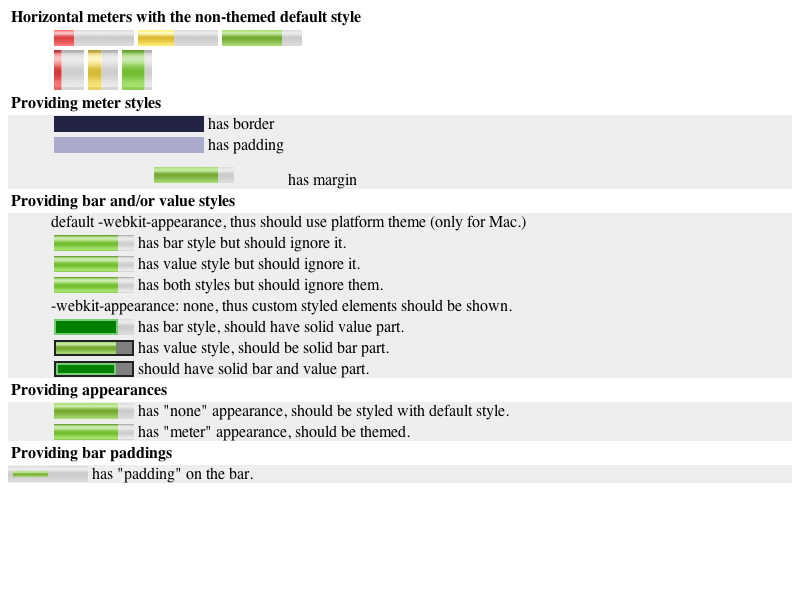
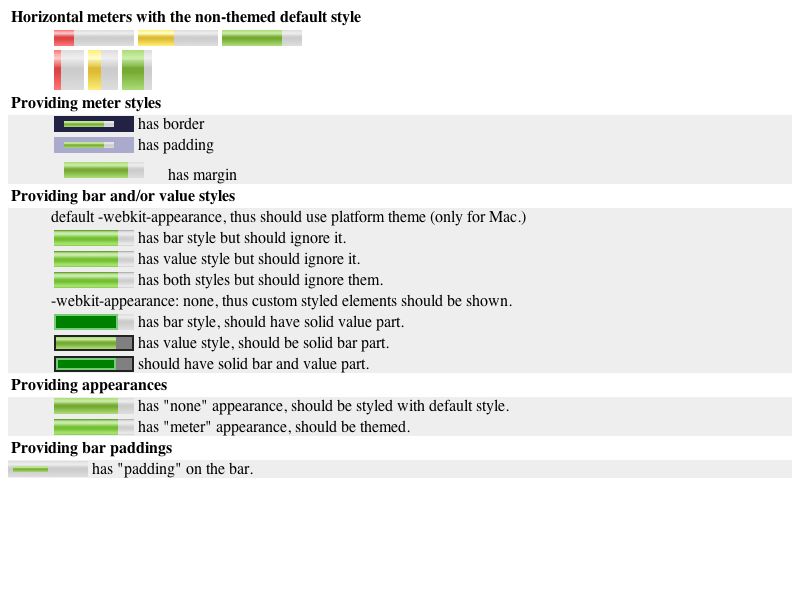
2011-05-11  MORITA Hajime  <morrita@google.com>
Reviewed by Kent Tamura.

        Some elements in meter-styles.html are hiding its content part with non-content-area.
        https://bugs.webkit.org/show_bug.cgi?id=58149

        - Resized the border and padding values
        - Gave "-webkit-appearance: none" to test that is intended to be painted using shadows.

        * fast/dom/HTMLMeterElement/meter-styles.html:
        * platform/mac/fast/dom/HTMLMeterElement/meter-styles-expected.checksum:
        * platform/mac/fast/dom/HTMLMeterElement/meter-styles-expected.png:
        * platform/mac/fast/dom/HTMLMeterElement/meter-styles-expected.txt:

Identifier: 75964@main
git-svn-id: https://svn.webkit.org/repository/webkit/trunk@86307 268f45cc-cd09-0410-ab3c-d52691b4dbfc

Changed region(s): [[0.0, 0.18, 0.6562, 0.81], [0.0625, 0.06, 0.1875, 0.12], [0.375, 0.27, 0.4375, 0.33]]

diff --git a/LayoutTests/fast/dom/HTMLMeterElement/meter-styles.html b/LayoutTests/fast/dom/HTMLMeterElement/meter-styles.html
@@ -6,7 +6,7 @@ if (window.layoutTestController)
 </script>
 <style>
   meter.usestyle { -webkit-appearance: none; /* this forces styling; */ }
-  meter.tall { width: 30px; height: 40px; }
+  meter.tall { width: 30px; height: 40px; -webkit-appearance: none; /* this forces styling; */ }
   ul, h2, p { margin: 0.2em; }
   h1, h2 { font-size: medium; }
   li { margin: 0.2em; list-style-type: none; }
@@ -29,9 +29,9 @@ if (window.layoutTestController)
   <h2>Providing meter styles</h2>
   <div style="background-color: #eee">
     <ul>
-      <li><meter style="background-color: #aac; border-color: #224; border-style: solid; border-width: 10px 50px 5px 100px;" min="0" max="100" low="30" high="60" optimum="100" value="80" ></meter> has border</li>
-      <li><meter style="background-color: #aac; border-color: #224; padding: 10px 50px 5px 100px;" min="0" max="100" low="30" high="60" optimum="100" value="80" ></meter> has padding</li>
-      <li><meter style="background-color: #aac; border-color: #224; margin: 10px 50px 5px 100px;" min="0" max="100" low="30" high="60" optimum="100" value="80" ></meter> has margin</li>
+      <li><meter style="background-color: #aac; border-color: #224; border-style: solid; border-width: 5px 20px 5px 10px;" min="0" max="100" low="30" high="60" optimum="100" value="80" ></meter> has border</li>
+      <li><meter style="background-color: #aac; border-color: #224; padding: 5px 20px 5px 10px;" min="0" max="100" low="30" high="60" optimum="100" value="80" ></meter> has padding</li>
+      <li><meter style="background-color: #aac; border-color: #224; margin:  5px 20px 5px 10px;" min="0" max="100" low="30" high="60" optimum="100" value="80" ></meter> has margin</li>
     </ul>
   </div>
   <h2>Providing bar and/or value styles</h2>
